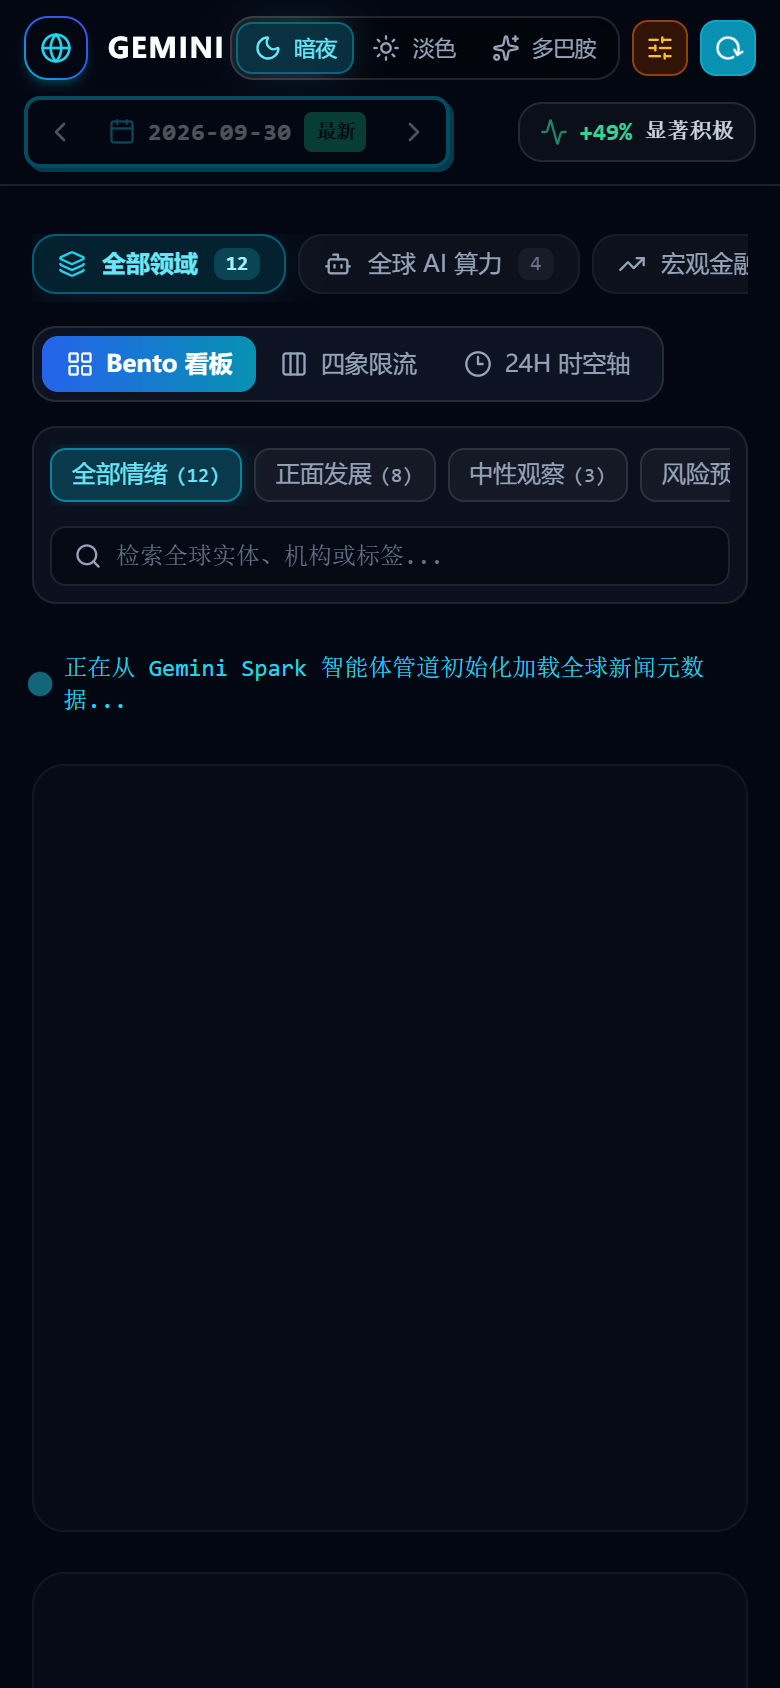
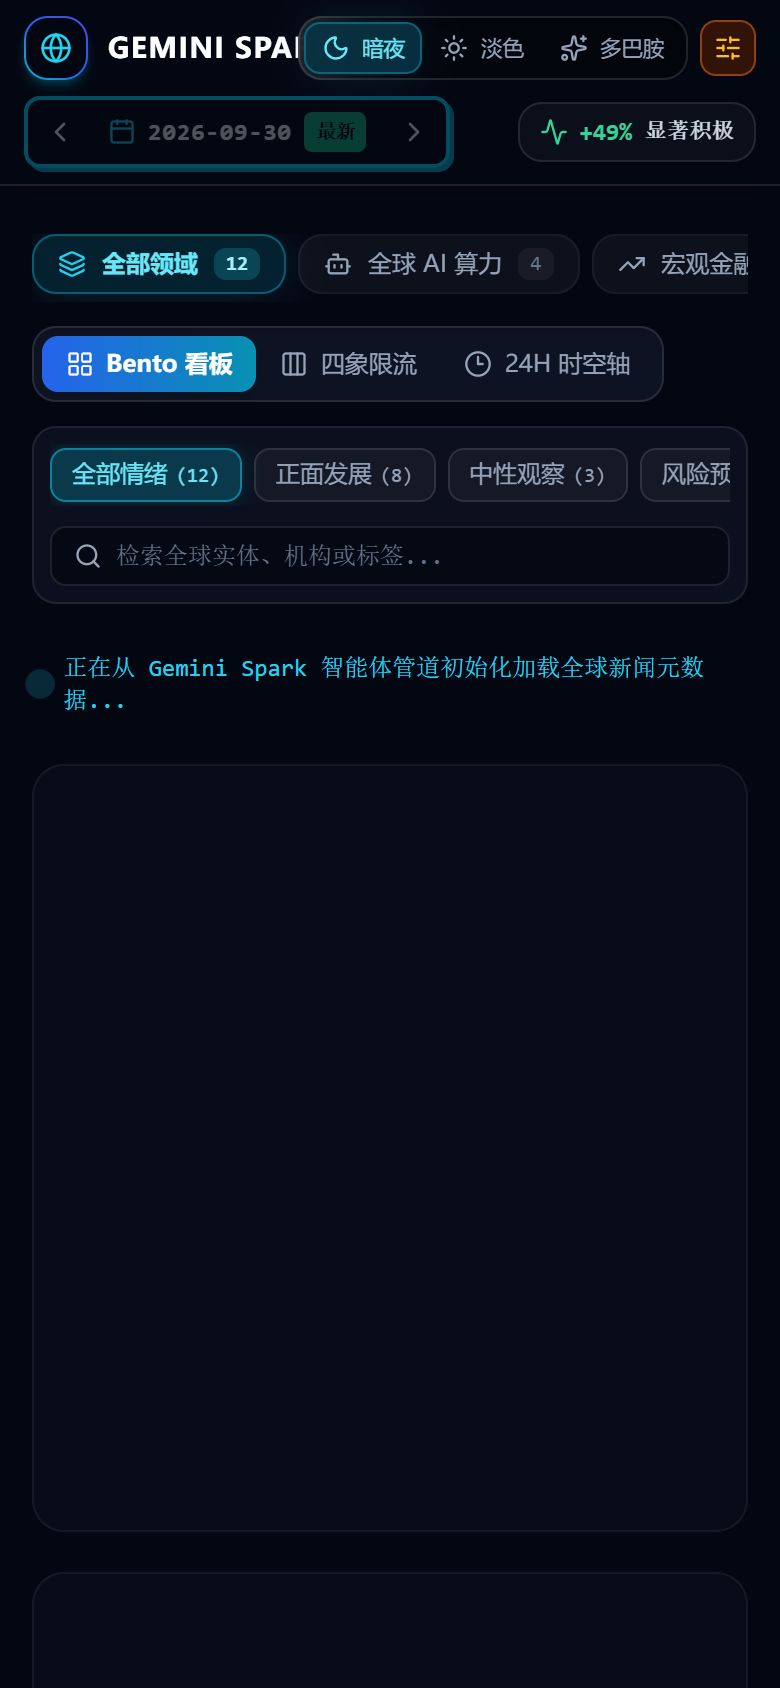
refactor(ui): relocate import briefing and sync batch actions into DevTools panel to maximize header horizontal space

Changed region(s): [[0.6154, 0.0, 0.9846, 0.0616], [0.2769, 0.0, 0.5846, 0.0616], [0.0308, 0.4005, 0.0615, 0.4313]]

diff --git a/src/components/IntelligenceHeader.tsx b/src/components/IntelligenceHeader.tsx
@@ -1,10 +1,8 @@
-import React, { useState } from 'react';
+import React from 'react';
 import { 
   Globe, 
-  RotateCw, 
   Activity, 
-  SlidersHorizontal,
-  Upload
+  SlidersHorizontal 
 } from 'lucide-react';
 import { SparkBatchStatusInfo } from '../types/news';
 import { ThemeSwitcher } from './ThemeSwitcher';
@@ -12,9 +10,9 @@ import { DateStepperCapsule } from './DateStepperCapsule';
 
 export interface IntelligenceHeaderProps {
   statusInfo: SparkBatchStatusInfo | null;
-  onManualSync: () => void;
+  onManualSync?: () => void;
   isSyncing: boolean;
-  onOpenImportModal: () => void;
+  onOpenImportModal?: () => void;
   onOpenDevTools: () => void;
   currentDate: string;
   availableDates: string[];
@@ -37,15 +35,6 @@ export const IntelligenceHeader: React.FC<IntelligenceHeaderProps> = ({
   onJumpToLatest,
   onDismissNewerBatch
 }) => {
-  const [isRefreshing, setIsRefreshing] = useState(false);
-
-  const handleManualRefresh = () => {
-    if (isRefreshing || isSyncing) return;
-    setIsRefreshing(true);
-    onManualSync();
-    setTimeout(() => setIsRefreshing(false), 800);
-  };
-
   const isRunning = statusInfo?.status === 'RUNNING';
   const sentimentScore = statusInfo?.globalSentimentIndex ?? 28;
 
@@ -86,7 +75,7 @@ export const IntelligenceHeader: React.FC<IntelligenceHeaderProps> = ({
               </div>
             </div>
 
-            {/* 移动端专属第一行右侧控制：主题切换器 + 紧凑同步按键 */}
+            {/* 移动端专属第一行右侧控制：主题切换器 + 紧凑 DevTools 按键 (含导入与同步) */}
             <div className="flex items-center gap-1.5 lg:hidden flex-shrink-0">
               <ThemeSwitcher />
 
@@ -96,21 +85,11 @@ export const IntelligenceHeader: React.FC<IntelligenceHeaderProps> = ({
                   type="button"
                   onClick={onOpenDevTools}
                   className="header-action-btn p-1.5 rounded-lg text-amber-300 bg-amber-950/70 border border-amber-800 transition-all flex items-center justify-center flex-shrink-0 shadow-sm"
-                  title="DevTools 开发者控制台"
+                  title="DevTools 开发者控制台 (含导入简报与批次同步)"
                 >
                   <SlidersHorizontal className="w-3.5 h-3.5 text-amber-400" />
                 </button>
               )}
-              
-              <button
-                type="button"
-                onClick={handleManualRefresh}
-                disabled={isRefreshing || isSyncing}
-                className="header-action-btn p-1.5 rounded-lg text-white bg-cyan-600 hover:bg-cyan-500 border border-cyan-400/30 transition-all flex items-center justify-center flex-shrink-0 shadow-sm"
-                title={isRefreshing || isSyncing ? '同步中...' : '手动同步最新批次'}
-              >
-                <RotateCw className={`w-3.5 h-3.5 ${isRefreshing || isSyncing ? 'animate-spin' : ''}`} />
-              </button>
             </div>
           </div>
 
@@ -147,7 +126,7 @@ export const IntelligenceHeader: React.FC<IntelligenceHeaderProps> = ({
               </div>
             </div>
 
-            {/* 桌面端专属操作区 (移动端已在第一行折叠) */}
+            {/* 桌面端专属操作区：主题切换器 + DevTools (导入简报与同步批次已收纳至 DevTools 抽屉，彻底解放顶栏横向排盘空间) */}
             <div className="hidden lg:flex items-center gap-2 flex-shrink-0">
               <ThemeSwitcher />
 
@@ -157,43 +136,15 @@ export const IntelligenceHeader: React.FC<IntelligenceHeaderProps> = ({
                   type="button"
                   onClick={onOpenDevTools}
                   className="header-action-btn header-btn-devtools px-2.5 py-1.5 text-xs font-mono rounded-lg text-amber-300 bg-amber-950/70 hover:bg-amber-900 border border-amber-800 transition-all flex items-center gap-1.5 shadow-sm whitespace-nowrap flex-shrink-0"
-                  title="打开全栈开发者调试套件 (DevTools)"
+                  title="打开全栈开发者控制台 (DevTools · 含导入简报与批次同步)"
                 >
                   <SlidersHorizontal className="w-3.5 h-3.5 text-amber-400 flex-shrink-0" />
                   <span>DevTools</span>
-                  <span className={`font-bold hidden 2xl:inline ${isRunning ? "text-amber-400" : "text-emerald-400"}`}>
+                  <span className={`font-bold hidden xl:inline ${isRunning ? "text-amber-400" : "text-emerald-400"}`}>
                     [{isRunning ? "计算中" : "已归档"}]
                   </span>
                 </button>
               )}
-
-              {/* 导入今日 Gemini 简报 */}
-              {onOpenImportModal && (
-                <button
-                  type="button"
-                  onClick={onOpenImportModal}
-                  className="header-action-btn header-btn-import px-2.5 py-1.5 text-xs font-mono rounded-lg text-cyan-300 bg-cyan-950/80 hover:bg-cyan-900 border border-cyan-800 transition-all hidden xl:flex items-center gap-1.5 shadow-sm whitespace-nowrap flex-shrink-0"
-                  title="粘贴并导入 Gemini Spark 定时任务生成的输出"
-                >
-                  <Upload className="w-3.5 h-3.5 text-cyan-400 flex-shrink-0" />
-                  <span>导入简报</span>
-                </button>
-              )}
-
-              {/* 桌面端防抖刷新按钮 */}
-              <button
-                type="button"
-                onClick={handleManualRefresh}
-                disabled={isRefreshing || isSyncing}
-                className={`header-action-btn header-btn-sync inline-flex items-center gap-1.5 px-3 py-1.5 rounded-lg text-xs font-semibold text-white shadow-md transition-all border border-cyan-400/30 whitespace-nowrap flex-shrink-0 ${
-                  isRefreshing || isSyncing
-                    ? 'bg-slate-800 text-slate-400 cursor-not-allowed border-slate-700'
-                    : 'bg-gradient-to-r from-cyan-600 to-blue-600 hover:from-cyan-500 hover:to-blue-500 shadow-cyan-500/20'
-                }`}
-              >
-                <RotateCw className={`w-3.5 h-3.5 flex-shrink-0 ${isRefreshing || isSyncing ? 'animate-spin' : ''}`} />
-                <span className="font-mono">{isRefreshing || isSyncing ? 'SYNC...' : '同步批次'}</span>
-              </button>
             </div>
 
           </div>

diff --git a/src/components/DevToolsPanel.tsx b/src/components/DevToolsPanel.tsx
@@ -21,7 +21,8 @@ import {
   Eye,
   EyeOff,
   Save,
-  ShieldAlert
+  ShieldAlert,
+  Upload
 } from 'lucide-react';
 import { 
   fetchHealthInfo, 
@@ -45,6 +46,7 @@ interface DevToolsPanelProps {
   onSimulateEmpty: () => void;
   currentStatus: string | undefined;
   silentCountdown: number;
+  onOpenImportModal?: () => void;
 }
 
 export const DevToolsPanel: React.FC<DevToolsPanelProps> = ({
@@ -56,7 +58,8 @@ export const DevToolsPanel: React.FC<DevToolsPanelProps> = ({
   onSimulateError,
   onSimulateEmpty,
   currentStatus,
-  silentCountdown
+  silentCountdown,
+  onOpenImportModal
 }) => {
   const [health, setHealth] = useState<HealthInfo | null>(null);
   const [latency, setLatency] = useState<number | null>(null);
@@ -418,6 +421,34 @@ export const DevToolsPanel: React.FC<DevToolsPanelProps> = ({
                 </>
               )}
             </button>
+
+            {/* 核心操作集成：导入简报 & 批次同步 (由 Header 移入，净化顶栏横向空间) */}
+            <div className="grid grid-cols-2 gap-2 pt-1">
+              {onOpenImportModal && (
+                <button
+                  type="button"
+                  onClick={() => {
+                    onClose();
+                    onOpenImportModal();
+                  }}
+                  className="py-2 px-2.5 rounded-lg bg-cyan-950/70 hover:bg-cyan-900 border border-cyan-700/60 text-cyan-200 text-xs font-mono font-bold flex items-center justify-center gap-1.5 transition active:scale-95 shadow-sm"
+                  title="粘贴并导入 Gemini Spark 定时任务或外部生成的 JSON 简报"
+                >
+                  <Upload className="w-3.5 h-3.5 text-cyan-400 flex-shrink-0" />
+                  <span>导入今日简报</span>
+                </button>
+              )}
+
+              <button
+                type="button"
+                onClick={onTriggerSilentSync}
+                className="py-2 px-2.5 rounded-lg bg-indigo-950/70 hover:bg-indigo-900 border border-indigo-700/60 text-indigo-200 text-xs font-mono font-bold flex items-center justify-center gap-1.5 transition active:scale-95 shadow-sm"
+                title="手动从服务端同步并刷新最新批次数据"
+              >
+                <RotateCw className="w-3.5 h-3.5 text-indigo-400 flex-shrink-0" />
+                <span>立即同步批次</span>
+              </button>
+            </div>
 
             {/* 运维管理秘钥配置 (X-Admin-Key) */}
             <div className="p-3 rounded-lg bg-black/40 border border-cyan-500/20 space-y-2">

diff --git a/src/components/SparkNewsDashboard.tsx b/src/components/SparkNewsDashboard.tsx
@@ -805,6 +805,7 @@ export const SparkNewsDashboard: React.FC = () => {
         onSimulateEmpty={handleSimulateEmpty}
         currentStatus={statusInfo?.status}
         silentCountdown={silentCountdown}
+        onOpenImportModal={() => setIsImportModalOpen(true)}
       />
 
       {/* 底部智库状态条 */}
